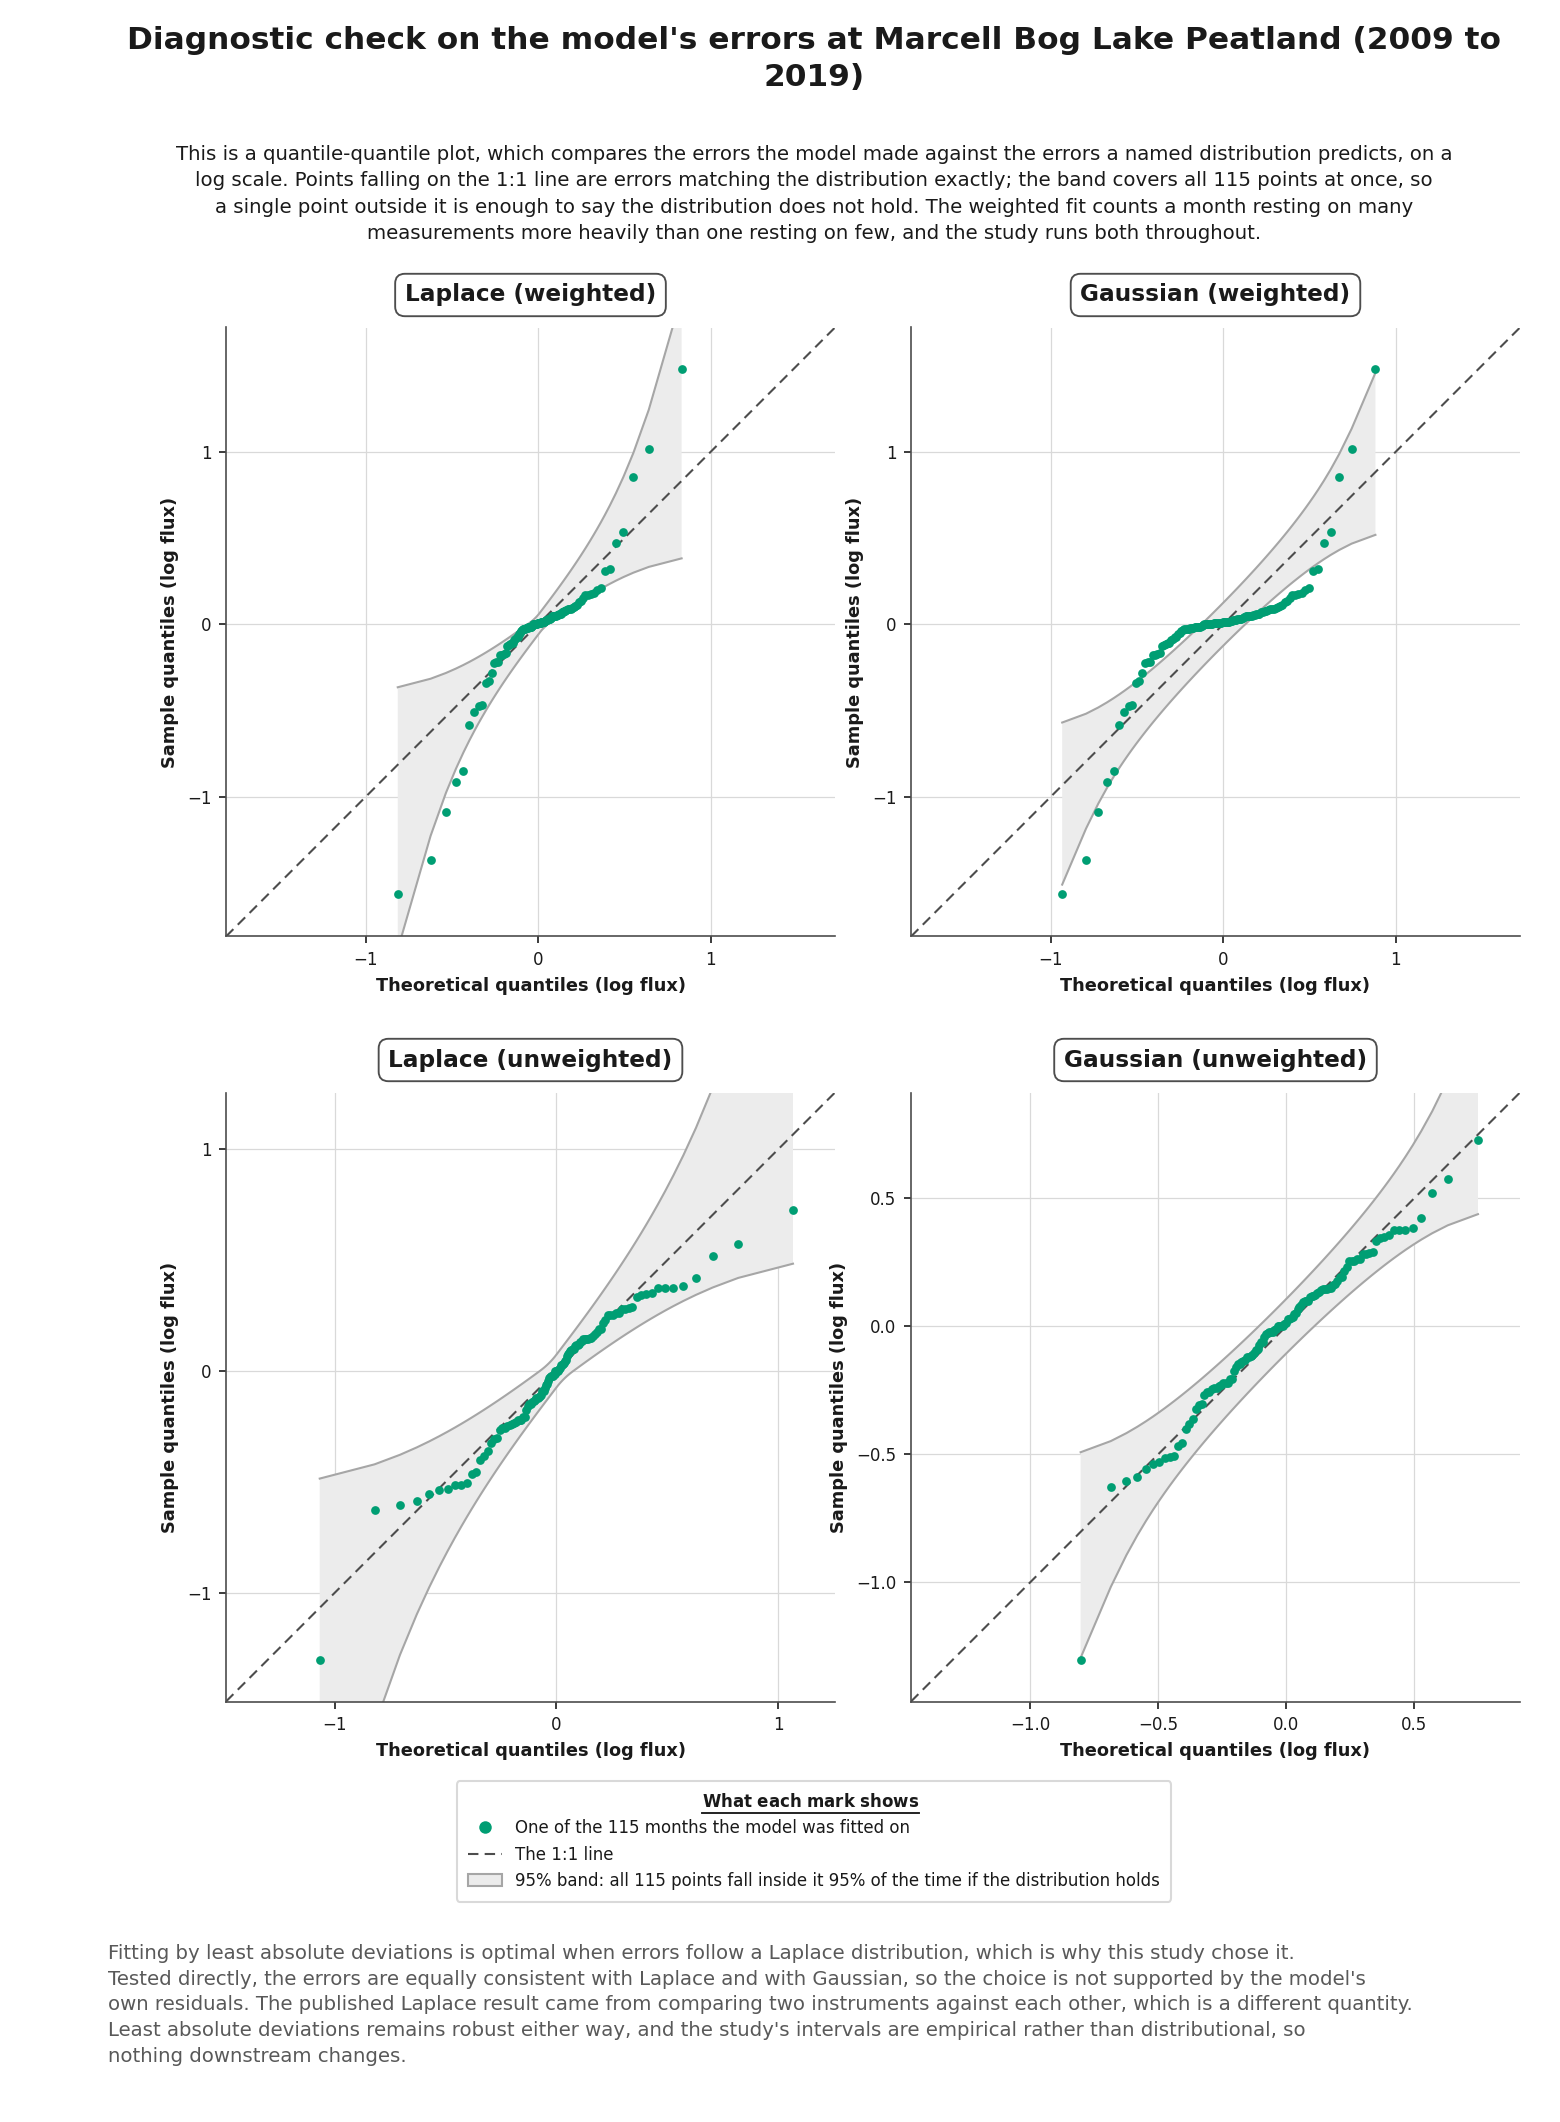
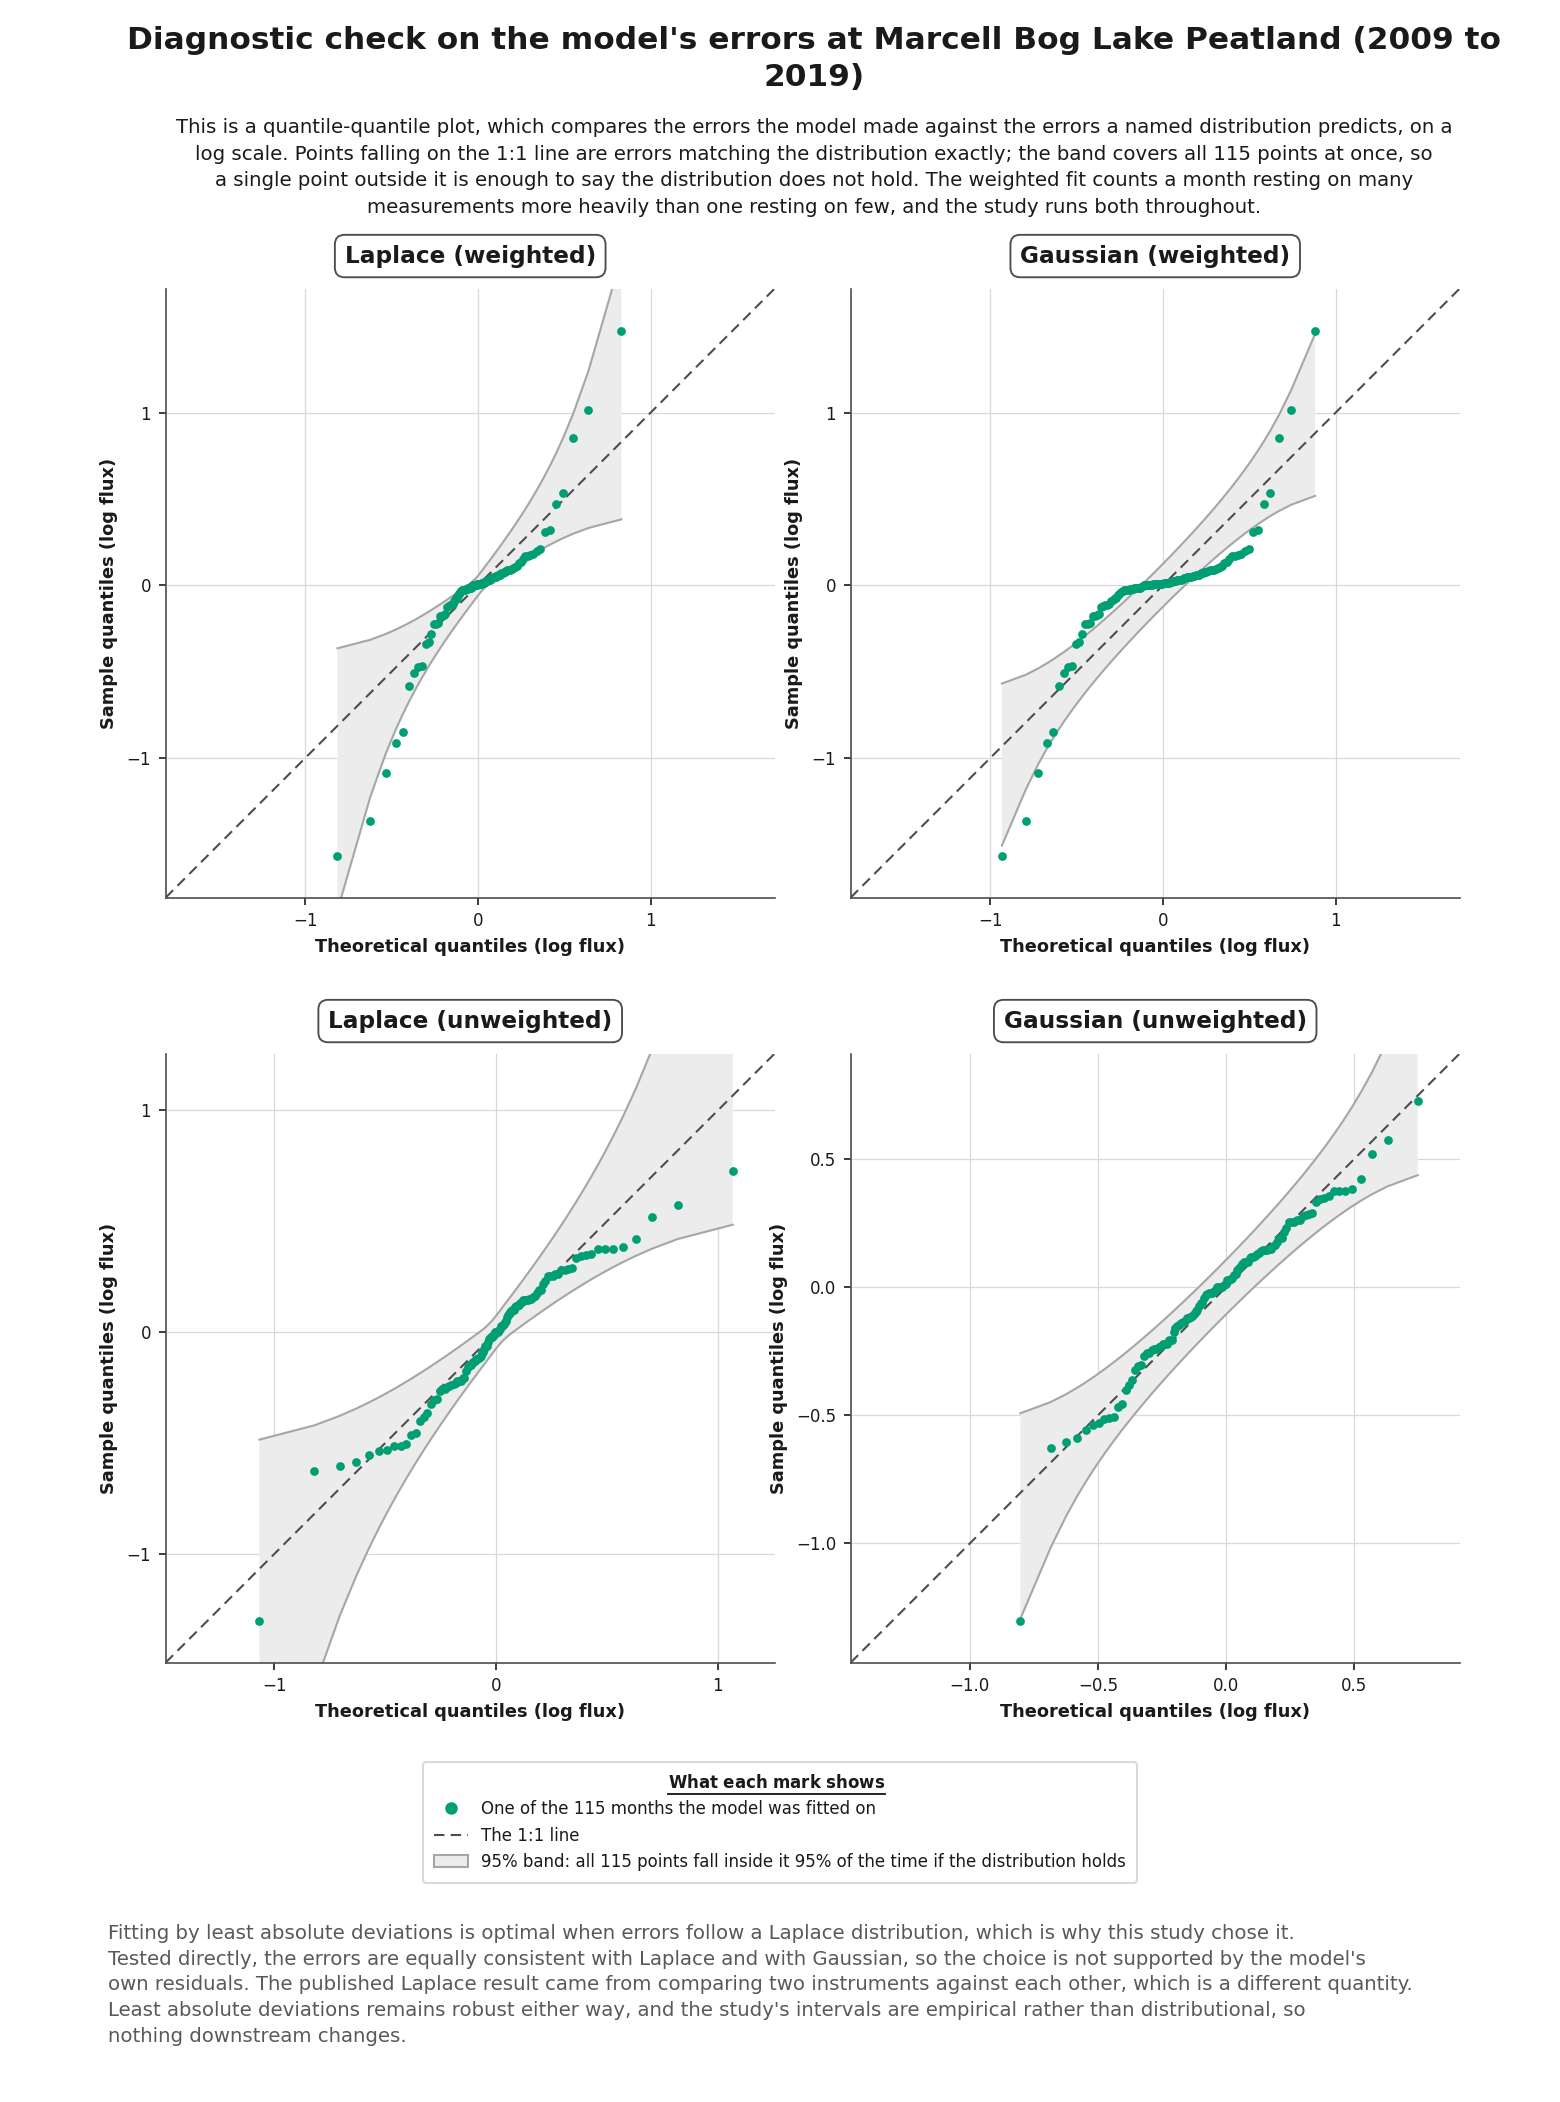
Center the errors figure and tighten its text blocks
The block sat 52 px right of centre because the canvas keeps a wider
margin at the left than at the right, which this figure does not need:
its own gutter already holds y-axis names. Centering now measures what
the panels and their axis names occupy after drawing, since the room set
aside for a name is not the room it uses, and slides the panels and the
key by the difference. Margins are 92 px either side.

canvas_area reserves the subtitle a share of the title's height, so the
air under a title doubles when the title wraps to two lines. Every other
figure has a one-line title and never met it. It now takes measured_text,
off by default, which places each block one gap under what the block
above actually occupies. Title to subtitle and subtitle to panels are
both 26 px, from 53 and 40.

The key clears the axis names above it by 41 px and the description below
by 41 px, from 21 and 42. The canvas came down 20 px, since the tighter
text freed height the square constraint could not spend.

diff --git a/src/study/plotstyle.py b/src/study/plotstyle.py
@@ -226,7 +226,7 @@ SIZES = {
     #: the panels shrink and leave empty margins either side of the pair. Two rows
     #: of square panels under a text stack of about 750 px is a taller canvas than
     #: it is wide, which is why this is the one portrait size in the set.
-    "quad": (1560, 2122),
+    "quad": (1560, 2102),
 }
 
 #: Fixed pixel allocations, so a figure's proportions do not depend on how much
@@ -250,6 +250,13 @@ LEGEND_SIZE = 9.5
 #: In-plot annotations sit below the region labels and the subtitle in the
 #: hierarchy, so they are smaller and italic rather than competing with them.
 ANNOTATION_SIZE = 8.5
+
+#: Air between the title and the subtitle, and between the subtitle and the
+#: drawing area, for figures that ask for the text blocks to be measured rather
+#: than allotted. The allotment reserves a share of the title's own height, so
+#: the gap a reader sees below a title doubles when the title wraps to two lines;
+#: measuring keeps it the same whatever the title does.
+TEXT_GAP_PX = 26
 
 #: Descriptions carry one idea per sentence, which takes more sentences than it
 #: takes words. The fixed block height is the real bound on length; this only
@@ -401,13 +408,28 @@ def wrap_description(text: str, width_px: int, terms: tuple[str, ...] = ()) -> s
     return emphasize(wrapped, terms)
 
 
-def canvas_area(text: FigureText, size: str = "wide",
-                extra_left_px: int = 0) -> tuple[Figure, tuple[float, float, float, float]]:
+def _below(fig: Figure, drawn, height_px: int) -> float:
+    """Where the next block starts, one gap under what this one occupies."""
+    fig.canvas.draw()
+    box = drawn.get_window_extent().transformed(fig.transFigure.inverted())
+    return box.y0 - TEXT_GAP_PX / height_px
+
+
+def canvas_area(text: FigureText, size: str = "wide", extra_left_px: int = 0,
+                measured_text: bool = False
+                ) -> tuple[Figure, tuple[float, float, float, float]]:
     """A figure carrying its text blocks, and the rectangle left for drawing.
 
     Callers that need one axes use `canvas`; callers laying out several panels
     take the rectangle and subdivide it, so every figure in the set keeps the
     same blocks in the same places whatever it draws inside them.
+
+    With `measured_text`, the subtitle and the drawing area are placed against
+    what the blocks above them actually occupy rather than against the room
+    allotted for them. The allotment gives the title a share of its own height,
+    which is right for the one-line titles most of this set carries and leaves a
+    two-line title sitting under twice the air. Off by default, so no figure that
+    does not ask for it moves.
     """
     apply_style()
     width_px, height_px = SIZES[size]
@@ -435,11 +457,18 @@ def canvas_area(text: FigureText, size: str = "wide",
     ) / height_px
 
     middle = (left + right) / 2
-    fig.text(middle, 1 - MARGIN_PX["top"] / height_px, title, ha="center", va="top",
-             fontsize=TITLE_SIZE, fontweight="bold", color=INK, linespacing=1.35)
-    fig.text(middle, 1 - (MARGIN_PX["top"] + title_px) / height_px,
-             emphasize(heading, text.emphasize), ha="center", va="top",
-             fontsize=SUBTITLE_SIZE, color=INK, linespacing=1.5)
+    drawn_title = fig.text(middle, 1 - MARGIN_PX["top"] / height_px, title,
+                           ha="center", va="top", fontsize=TITLE_SIZE,
+                           fontweight="bold", color=INK, linespacing=1.35)
+    subtitle_at = 1 - (MARGIN_PX["top"] + title_px) / height_px
+    if measured_text:
+        subtitle_at = _below(fig, drawn_title, height_px)
+    drawn_subtitle = fig.text(middle, subtitle_at,
+                              emphasize(heading, text.emphasize), ha="center",
+                              va="top", fontsize=SUBTITLE_SIZE, color=INK,
+                              linespacing=1.5)
+    if measured_text:
+        axes_top = _below(fig, drawn_subtitle, height_px)
     fig.text(left, (MARGIN_PX["bottom"] + DESCRIPTION_BLOCK_PX) / height_px,
              body, ha="left", va="top", fontsize=DESCRIPTION_SIZE, color=MUTED,
              linespacing=1.45)

diff --git a/src/study/figures.py b/src/study/figures.py
@@ -2512,7 +2512,7 @@ def _distribution_key(fig, left: float, bottom: float, width: float) -> None:
     # another sixty pixels.
     ps.legend(ax, handles=[handle for handle, _ in entries],
               labels=[label for _, label in entries], loc="center",
-              bbox_to_anchor=(0.5, 0.31), ncol=1, framealpha=1.0, borderpad=0.7,
+              bbox_to_anchor=(0.5, 0.30), ncol=1, framealpha=1.0, borderpad=0.7,
               labelspacing=0.5, handlelength=2.0, handletextpad=0.8,
               fontsize=ps.LEGEND_SIZE - 1.5)
     _underline_legend_headings(fig, ax, center=True)
@@ -2528,8 +2528,10 @@ def residual_distribution_check(
     have no likelihood at all, and carbon dioxide has no fit of this kind: it
     crosses zero, so the log target the model needs does not exist for it.
     """
-    fig, (left, bottom, width, height) = ps.canvas_area(DISTRIBUTION_TEXT,
-                                                        size="quad")
+    # Measured text blocks: the title wraps to two lines here, and the allotted
+    # spacing gives a two-line title twice the air a one-line title gets.
+    fig, (left, bottom, width, height) = ps.canvas_area(
+        DISTRIBUTION_TEXT, size="quad", measured_text=True)
     width_px, height_px = ps.SIZES["quad"]
 
     axis_room = DISTRIBUTION_AXIS_PX / width_px
@@ -2547,13 +2549,11 @@ def residual_distribution_check(
                    - 2 * (DISTRIBUTION_HEAD_PX + DISTRIBUTION_XAXIS_PX)
                    - DISTRIBUTION_ROW_GAP_PX) / 2)
     across, down = side_px / width_px, side_px / height_px
-    # Centered in what is left, so the slack sits either side of the pair rather
-    # than all of it at the right.
-    slack = (width - axis_room - 2 * across - gap) / 2
+    drawn = []
     for index, (weighting, name) in enumerate(DISTRIBUTION_PANELS):
         row, column = divmod(index, 2)
         family = name.split(" ")[0]
-        at = left + slack + axis_room + column * (across + gap)
+        at = left + axis_room + column * (across + gap)
         top = bottom + height - row * (head + down + x_room + row_gap) - head
         ax = fig.add_axes((at, top - down, across, down))
         _draw_distribution_panel(ax, panels[(weighting, family)],
@@ -2563,6 +2563,28 @@ def residual_distribution_check(
         # sitting on the frame it names.
         ps.panel_name(ax, name, x=0.5, align="center",
                       y=1.0 + 44 / (down * height_px))
+        drawn.append(ax)
 
-    _distribution_key(fig, left, bottom, width)
+    # Slid so the whole block sits centered, the block being the panels together
+    # with the axis names and tick labels standing left of them. The canvas keeps
+    # a wider margin at the left than at the right, which this figure does not
+    # need: its own gutter already holds what that margin is there for.
+    shift = _centering_shift(fig, drawn, width_px)
+    for ax in drawn:
+        box = ax.get_position()
+        ax.set_position((box.x0 + shift, box.y0, box.width, box.height))
+    # Centered on the canvas, as the block above it now is.
+    _distribution_key(fig, 0.5 - width / 2, bottom, width)
     return fig
+
+
+def _centering_shift(fig, drawn: list, width_px: int) -> float:
+    """How far to slide the panels so the whole block sits centered.
+
+    Measured after drawing rather than taken from the room set aside: what a
+    y-axis name and its tick labels occupy is not what was allotted to them.
+    """
+    fig.canvas.draw()
+    left_edge = min(ax.yaxis.get_label().get_window_extent().x0 for ax in drawn)
+    right_edge = max(ax.get_window_extent().x1 for ax in drawn)
+    return ((width_px - (right_edge - left_edge)) / 2 - left_edge) / width_px

diff --git a/tests/test_residual_distribution_check.py b/tests/test_residual_distribution_check.py
@@ -140,14 +140,46 @@ def test_the_panels_take_the_full_width_rather_than_leaving_margins():
     fig = figures.residual_distribution_check(four_panels())
     fig.canvas.draw()
     drawn = [ax for ax in fig.axes if ax.get_legend() is None]
-    left_edge = min(ax.get_window_extent().x0 for ax in drawn)
-    expected = ps.MARGIN_PX["left"] + figures.DISTRIBUTION_AXIS_PX
-    assert left_edge == pytest.approx(expected, abs=2.0)
-
     width_px, height_px = ps.SIZES["quad"]
     covered = sum(ax.get_window_extent().width * ax.get_window_extent().height
                   for ax in drawn)
     assert covered / (width_px * height_px) > 0.40
+    ps.plt.close(fig)
+
+
+def test_the_whole_block_is_centered_and_not_just_the_panels():
+    """The canvas keeps a wider margin at the left than at the right, and this
+    figure's own gutter already holds what that margin is there for. Centering
+    the panels alone would leave the block sitting right of centre by half the
+    difference; centering what the panels and their axis names occupy does not."""
+    fig = figures.residual_distribution_check(four_panels())
+    fig.canvas.draw()
+    drawn = [ax for ax in fig.axes if ax.get_legend() is None]
+    width_px, _ = ps.SIZES["quad"]
+    left_margin = min(ax.yaxis.get_label().get_window_extent().x0 for ax in drawn)
+    right_margin = width_px - max(ax.get_window_extent().x1 for ax in drawn)
+    assert left_margin == pytest.approx(right_margin, abs=2.0)
+
+    # And the key sits on the same centre line as the block above it.
+    key = next(ax.get_legend() for ax in fig.axes if ax.get_legend())
+    box = key.get_window_extent()
+    assert (box.x0 + box.x1) / 2 == pytest.approx(width_px / 2, abs=2.0)
+    ps.plt.close(fig)
+
+
+def test_the_text_blocks_are_measured_rather_than_allotted():
+    """The allotment gives the title a share of its own height, so a two-line
+    title sits under twice the air a one-line title gets. This figure has one."""
+    fig = figures.residual_distribution_check(four_panels())
+    fig.canvas.draw()
+    _, height_px = ps.SIZES["quad"]
+    title = max(fig.texts,
+                key=lambda t: len(t.get_text()) if "Diagnostic" in t.get_text() else 0)
+    subtitle = max(fig.texts,
+                   key=lambda t: len(t.get_text()) if "quantile-quantile" in t.get_text() else 0)
+    gap = title.get_window_extent().y0 - subtitle.get_window_extent().y1
+    assert gap == pytest.approx(ps.TEXT_GAP_PX, abs=2.0)
+    assert title.get_text().count("\n") == 1        # the two-line title
     ps.plt.close(fig)
 
 

diff --git a/notes/study.md b/notes/study.md
@@ -2848,11 +2848,33 @@ covers, and what weighting does.
 453 px square with 156 px of empty margin either side of the pair, because the
 height was chosen first and squareness then took whichever direction ran out
 sooner. Setting the height to whatever squares the panels at the full available
-width gives **609 px square and no slack**, and the panels went from **28.6% to
-44.8% of the canvas**. Two rows of square panels under a text stack of about
-750 px is taller than it is wide, so this is the one portrait size in the set,
-at 1560 by 2122. A test holds the left edge against the margin so a later change
-that shrinks the panels and reopens the margins fails rather than passes quietly.
+width gives **609 px square**, and the panels went from **28.6% to 45.2% of the
+canvas**. Two rows of square panels under a text stack is taller than it is wide,
+so this is the one portrait size in the set, at 1560 by 2102.
+
+**The block is centered, not the panels.** `MARGIN_PX` keeps 108 px at the left
+against 40 at the right, which is there to hold y-axis names on figures that have
+no gutter of their own. This one has a gutter, so that margin was doubling up and
+the whole block sat 52 px right of centre. `_centering_shift` measures what the
+panels and their axis names actually occupy after drawing — the room set aside
+for a name is not the room it uses — and slides every panel and the key by the
+difference. Margins are 92 px either side now and a test holds them equal.
+
+**The text blocks are measured rather than allotted, for this figure only.**
+`canvas_area` reserves the subtitle a share of the *title's* height, so the air
+under a title doubles when the title wraps to two lines. Every other figure in
+the set has a one-line title and never met it; this one wraps, and sat under 53 px
+of air with another 40 px below the subtitle. `canvas_area` now takes
+`measured_text`, off by default, which places the subtitle one `TEXT_GAP_PX`
+under what the title actually occupies and the drawing area one gap under the
+subtitle. Both gaps are 26 px, and no figure that does not ask for it moves.
+
+**The key sits below the middle of its band.** It is taller than the 92 px band
+it stands in, so centering it puts its top edge against the axis names of the row
+above. At an anchor of 0.30 it clears them by 41 px and the description below by
+41 px. The canvas height was tuned alongside it: the tighter text freed 40 px
+that the square constraint could not spend, since the panel side is set by the
+width, so the canvas came down rather than leaving the gap above the key to grow.
 
 **The description bounds the null rather than leaving it open.** Every earlier
 version stated the negative result and stopped, which leaves a reader working out
